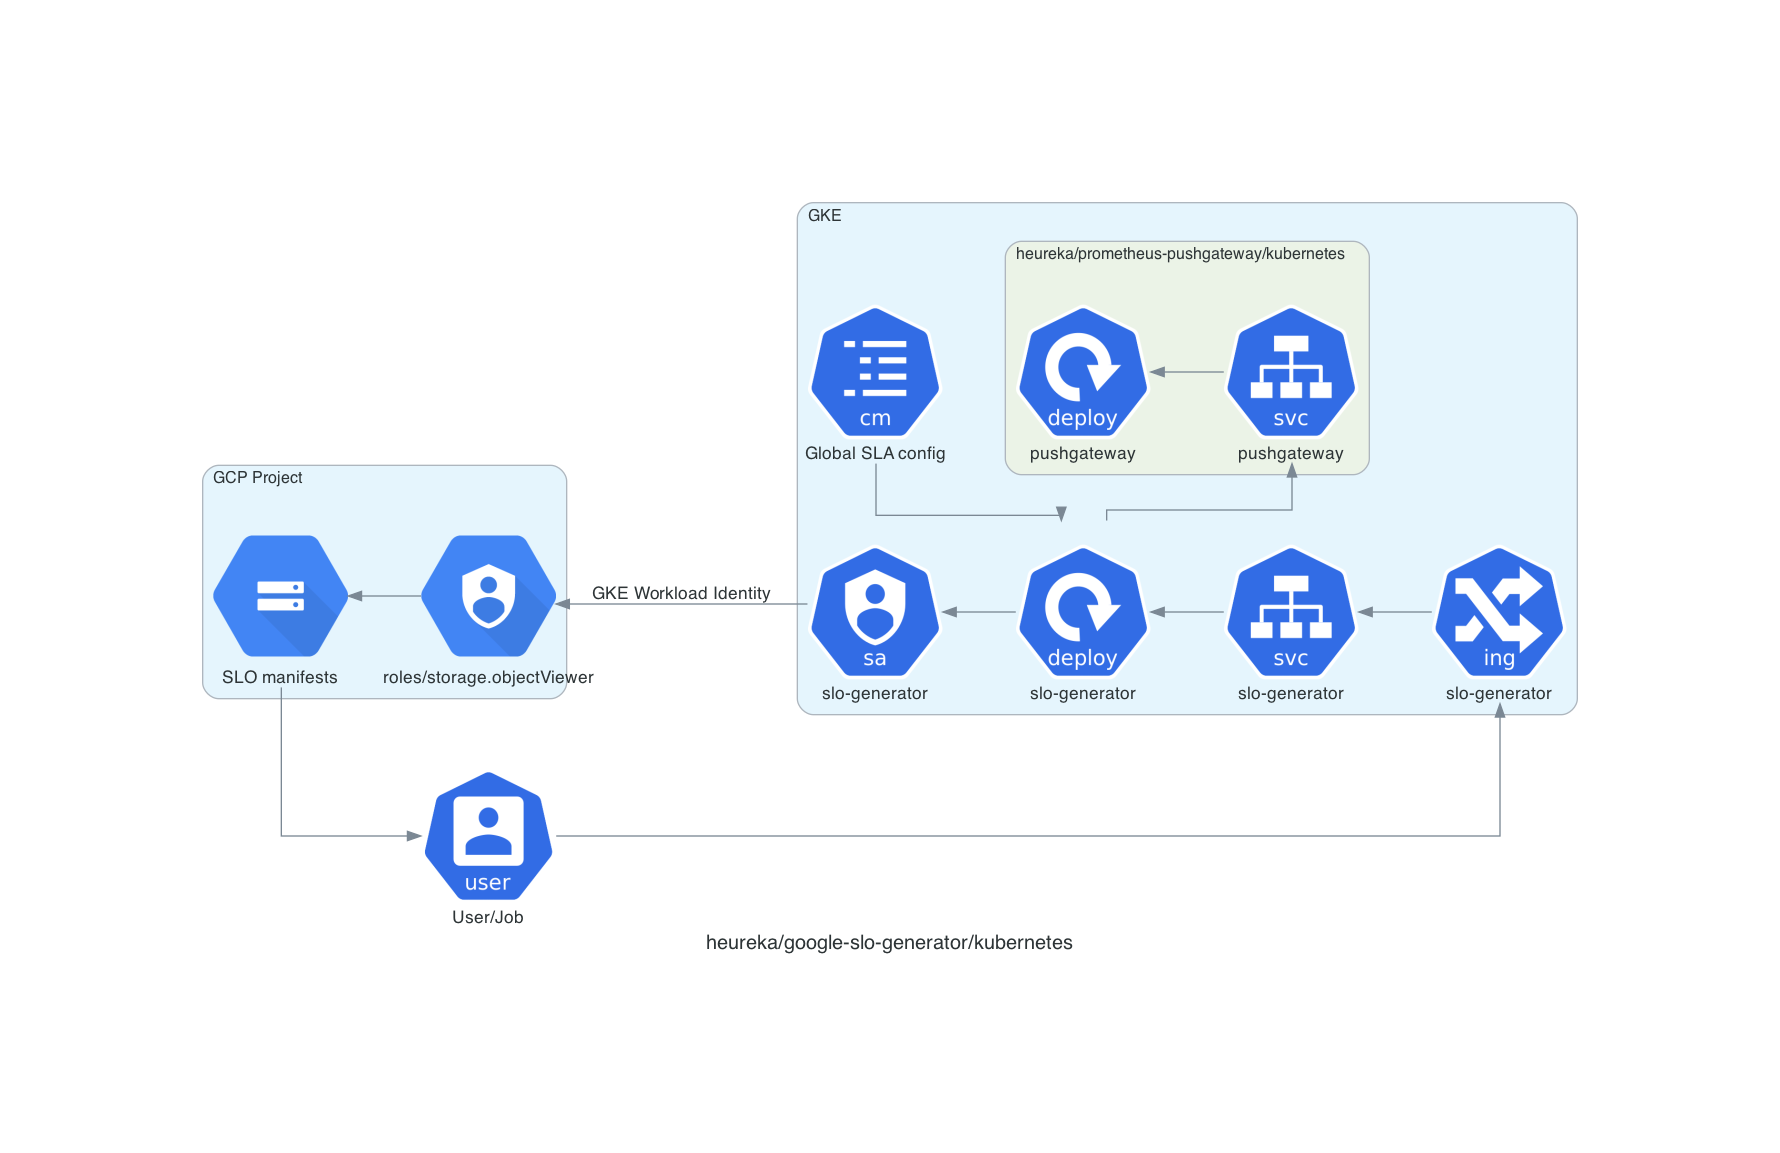
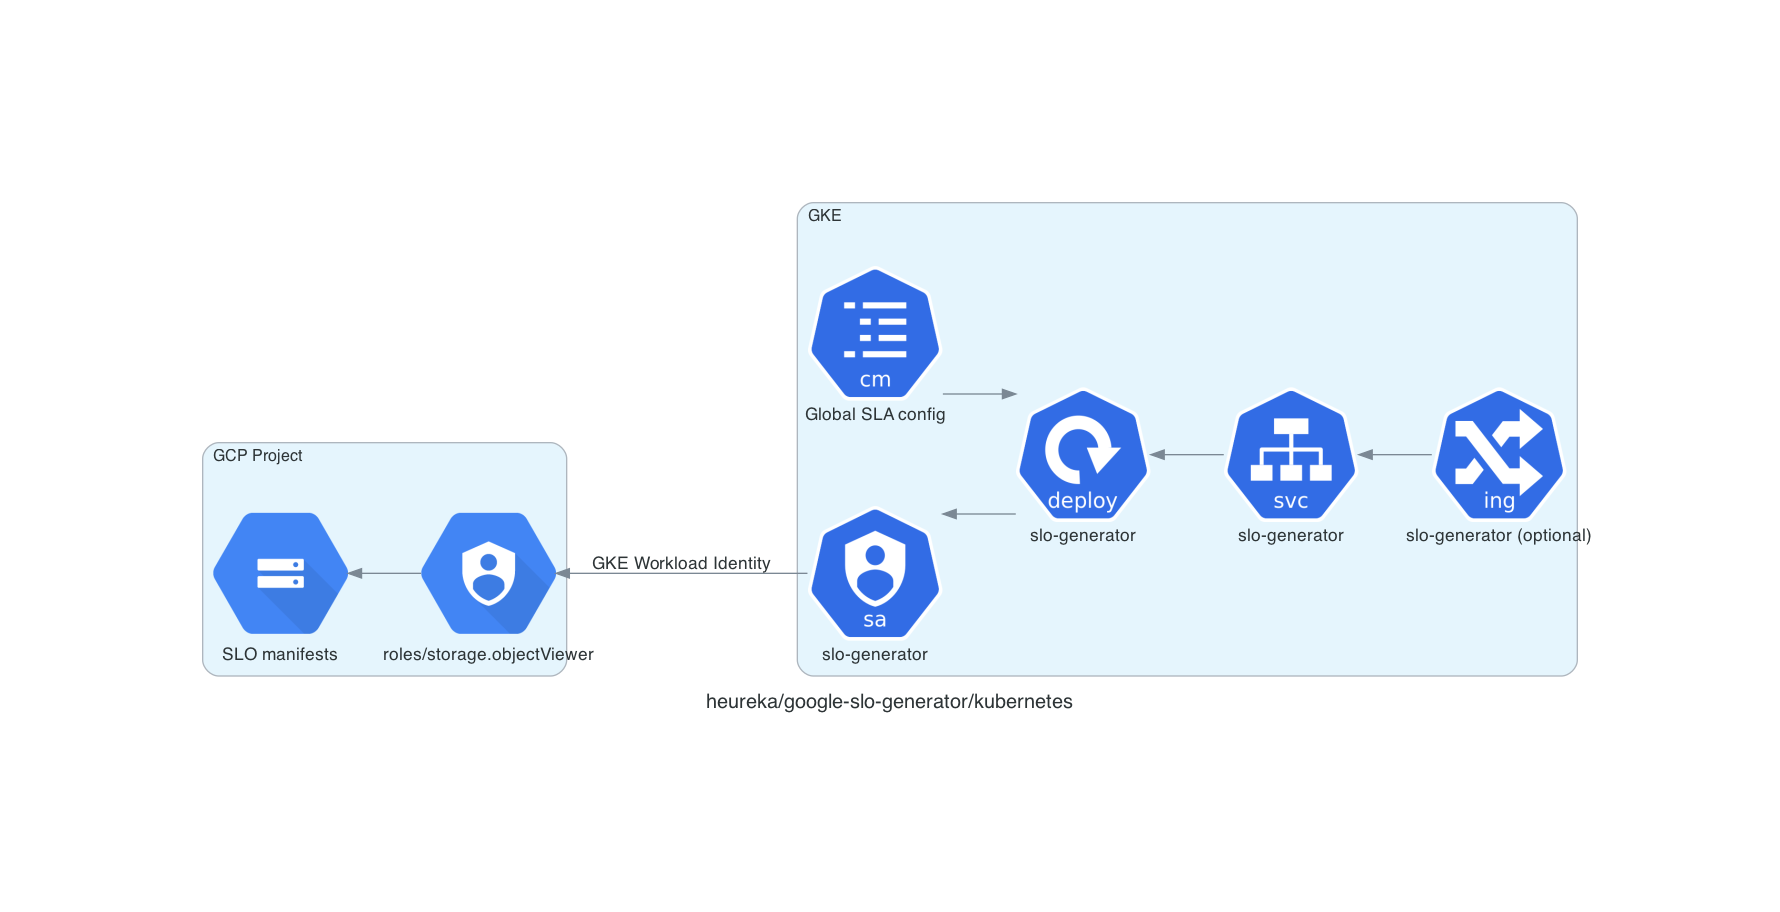
Move to omni-slo-generator

Changed region(s): [[0.0927, 0.1535, 0.8961, 0.8289]]

diff --git a/README.md b/README.md
@@ -1,14 +1,13 @@
 # terraform-kubernetes-google-slo-generator
 
-An extremely opinionated module, that deploys Google's 
-[SLO generator][slo-generator] into GKE.
+An extremely opinionated module, that deploys [omni-slo-generator][omni-slo-gnerator]
+based on Google's [SLO generator][slo-generator] into GKE.
 
 ## Assumptions made
 
-* Prometheus backend is a cortex cluster (without multi tenancy)
-  * Cortex is running in monitoring namespace and has a nginx pod `cortex-nginx` for proxying (as cortex helm chart does it)
+* Prometheus backend is a mimir cluster
+  * Mimir is running in monitoring namespace and has a nginx pod `mimir-nginx` for proxying (as mimir helm chart does it)
   * This can be overridden variable `prometheus-backend-url`
-* Exporter is a pushgateway deployed by this module (might change if [this][expose self pr] gets merged)
 * You want to keep the default policies as shown in slo-exporter's examples (1h, 12h, 7d, 28d)
 * You are using ingress nginx controller (this is configurable)
 * GKE cluster has [workload identity][workload identity] enabled
@@ -26,7 +25,7 @@ you don't need to expose it outside the cluster.
 ```terraform
 module "slo-generator" {
   source = "heureka/google-slo-generator/kubernetes"
-  version = "1.0.2"
+  version = "2.0.0"
 
   gke-project     = "company-k8s"
   storage-project = "todo-app"
@@ -37,22 +36,16 @@ module "slo-generator" {
 ```
 
 After that, you can upload your [SLO manifests][slo config]
-to the SLOs bucket, create a job to periodically send following http requests:
-
-```shell
-# single SLO
-curl -X POST -d "gs://my-unique-slos/slo.yaml" http://slo-generator.example.com
-# batched request
-curl -X POST -d "gs://my-unique-slos/slo.yaml;gs://my-unique-slos/slo2.yaml" http://slo-generator.example.com/?batch=true
-```
+to the SLOs bucket, which the generator will automatically go through and 
+calculate SLOs for
 
 ### Additional configuration
 
 Please check the input tab of [this module's page][input tab] on terraform 
 registry to see all available options and their descriptions. 
 
+[omni-slo-generator]: https://github.com/heureka/omni-slo-generator
 [slo-generator]: https://github.com/google/slo-generator/
 [input tab]: https://registry.terraform.io/modules/heureka/google-slo-generator/kubernetes/latest?tab=inputs
-[expose elf pr]: https://github.com/google/slo-generator/pull/209
 [workload identity]: https://cloud.google.com/kubernetes-engine/docs/how-to/workload-identity
 [slo config]: https://github.com/google/slo-generator/#slo-configuration
